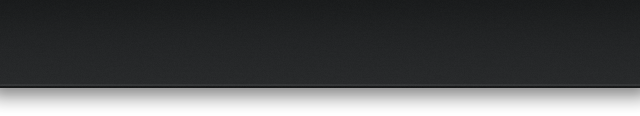
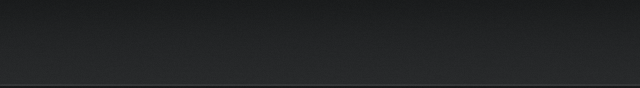
new navigation dropshadow and background

Changed region(s): [[0.0, 0.75, 1.0, 1.0]]

diff --git a/PhotoFeed/UINavigationBar+Custom.m b/PhotoFeed/UINavigationBar+Custom.m
@@ -7,13 +7,26 @@
 //
 
 #import "UINavigationBar+Custom.h"
-
+#import <QuartzCore/QuartzCore.h>
 
 @implementation UINavigationBar (Custom)
 
 - (void)drawRect:(CGRect)rect {
   UIImage *image = [[UIImage imageNamed:@"bg-navigation.png"] retain];
 	[image drawInRect:CGRectMake(0, 0, self.frame.size.width, self.frame.size.height + 14)];
+}
+
+-(void)willMoveToWindow:(UIWindow *)newWindow{
+  [super willMoveToWindow:newWindow];
+  [self applyDropShadow];
+}
+
+- (void)applyDropShadow {
+  // add the drop shadow
+  self.layer.masksToBounds = NO;
+  self.layer.shadowColor = [[UIColor blackColor] CGColor];
+  self.layer.shadowOffset = CGSizeMake(0.0, 3.0);
+  self.layer.shadowOpacity = 0.25;
 }
 
 @end

diff --git a/PhotoFeed/UINavigationBar+Custom.h b/PhotoFeed/UINavigationBar+Custom.h
@@ -12,5 +12,6 @@
 @interface UINavigationBar (Custom)
 
 - (void)drawRect:(CGRect)rect;
+- (void)applyDropShadow;
 
 @end
